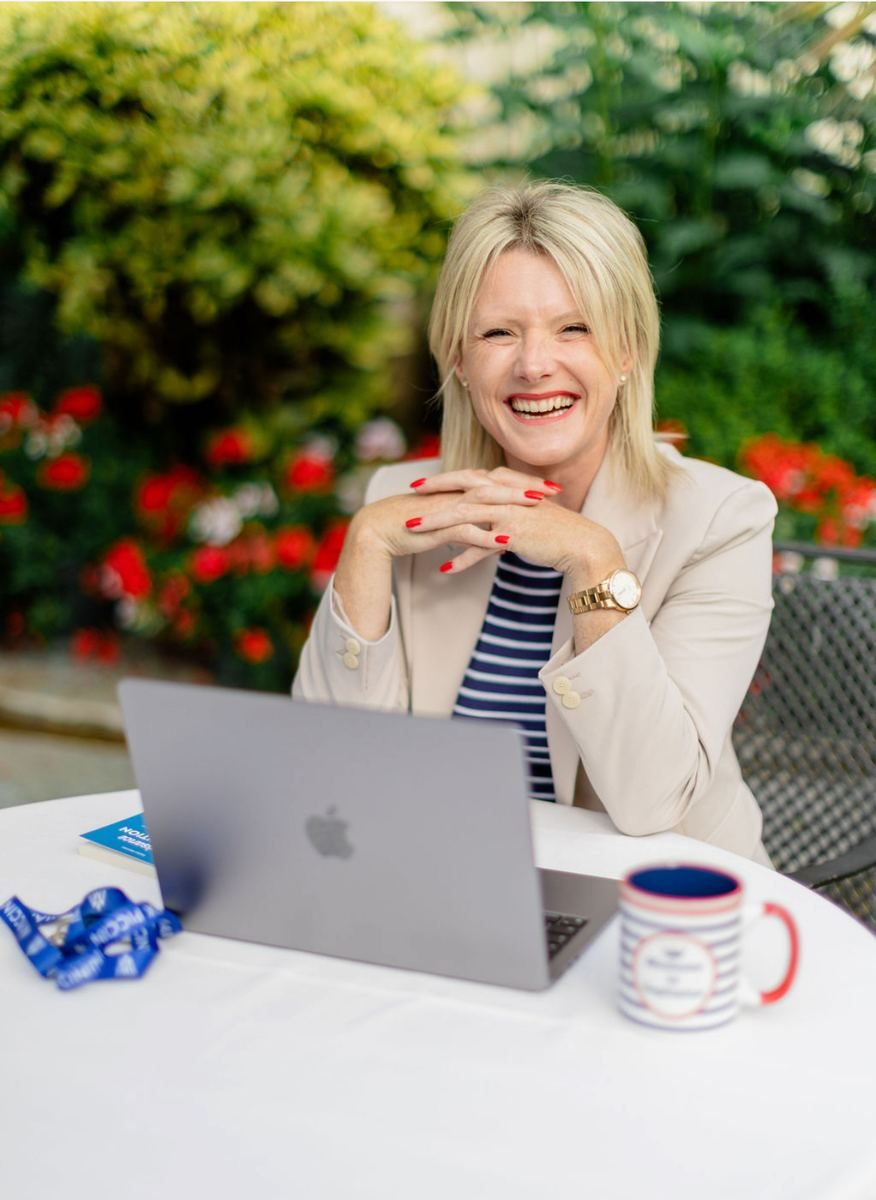
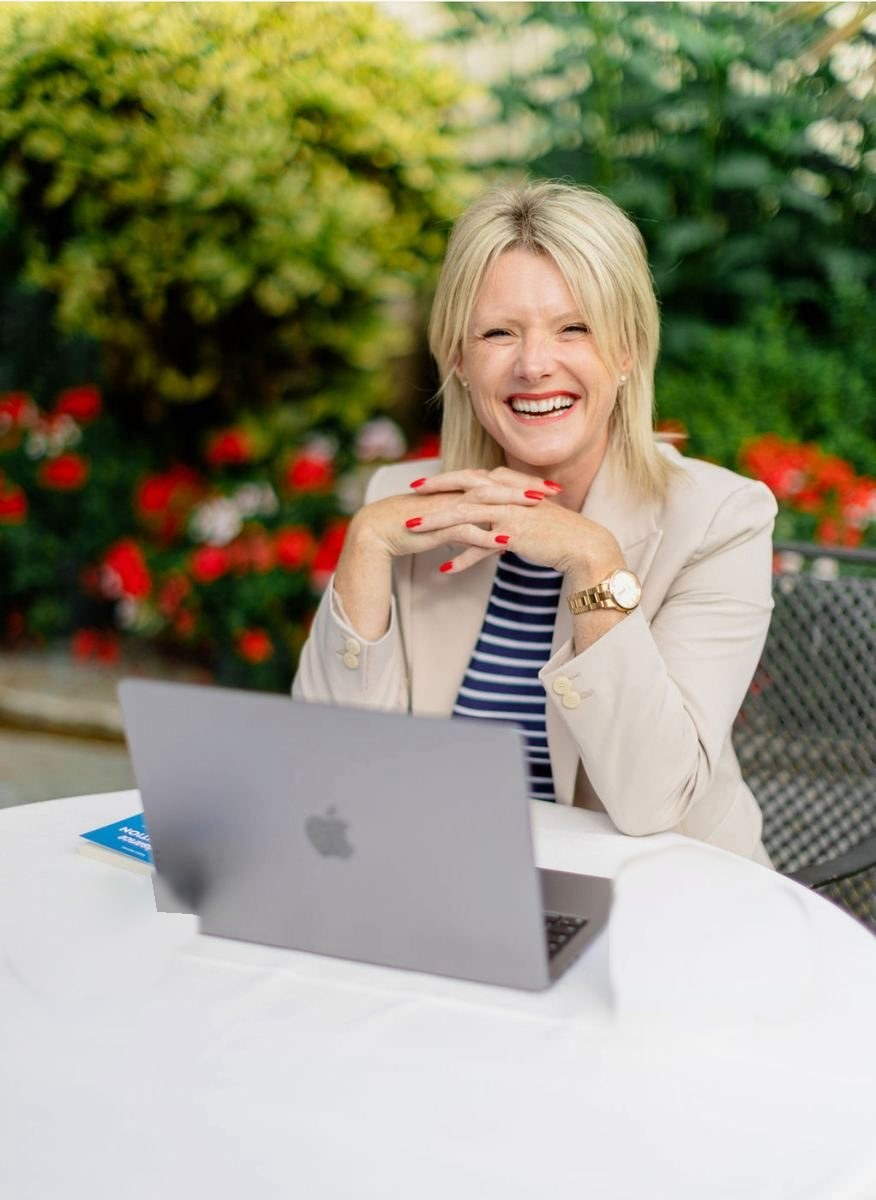
Photo principale : tasse et cordon retirés, dents éclaircies
Claude-Session: https://claude.ai/code/session_01H6ppEmAx93WT3bqzY4M5Cu

Changed region(s): [[0.6781, 0.7092, 0.9247, 0.8633], [0.0, 0.7092, 0.2466, 0.8325]]

diff --git a/index.html b/index.html
@@ -284,7 +284,7 @@ footer .legal{width:100%;border-top:1px solid rgba(255,255,255,.2);margin-top:30
       <p class="rdv-note">Appel découverte de 30 min · offert · sans engagement</p>
     </div>
     <div class="photo">
-      <img src="aurelie-trement-hero.jpg" alt="Aurélie Trément, le bras droit des dirigeants et cadres" style="object-position:50% 30%">
+      <img src="aurelie-trement-hero.jpg?v=2" alt="Aurélie Trément, le bras droit des dirigeants et cadres" style="object-position:50% 30%">
     </div>
   </div>
 </section>

diff --git a/accompagnement.html b/accompagnement.html
@@ -403,7 +403,7 @@ details p{margin-top:12px;color:var(--texte-doux)}
 <!-- POURQUOI MOI -->
 <section class="about why">
   <div class="wrap">
-    <div class="photo"><img src="aurelie-trement-hero.jpg" alt="Aurélie Trément" style="object-position:50% 30%"></div>
+    <div class="photo"><img src="aurelie-trement-hero.jpg?v=2" alt="Aurélie Trément" style="object-position:50% 30%"></div>
     <div>
       <span class="eyebrow">Pourquoi faire appel à moi</span>
       <h2>Ce que je transmets, je l'ai d'abord vécu</h2>
